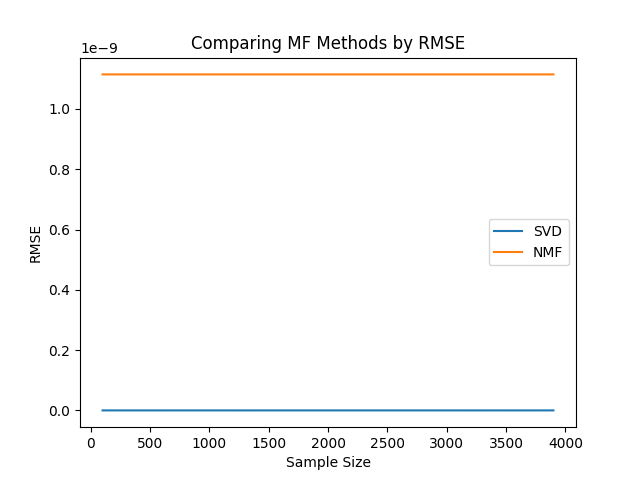
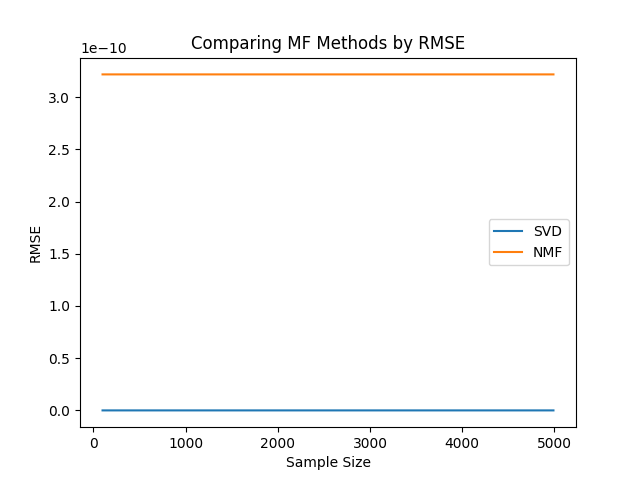
Adding changes to RMSE function and plot changes

diff --git a/final_from_scratch.py b/final_from_scratch.py
@@ -23,11 +23,13 @@ def rmse_function(actual, estimate):
     rmse_val (float): root mean square error
     '''
     rmse_val = 0
+    count = 0
     for row, col in np.ndindex(actual.shape):
         # only calculate RMSE for ratings that exist
         if actual[row, col] != 0:
             rmse_val += (actual[row, col] - estimate[row, col])**2
-    rmse_val = np.sqrt(rmse_val)
+            count += 1
+    rmse_val = np.sqrt(rmse_val/count)
     return rmse_val
 
 def sgd_svd(arr, n_components, lr, epochs):
@@ -204,13 +206,15 @@ sparse_matrix = sparse.csr_matrix((df.rating.values, (df.user_id.values, df.movi
 # convert to a numpy array
 sparse_matrix = sparse.csr_matrix.toarray(sparse_matrix)
 
+print(sparse_matrix.shape)
+
 #print(sparse_matrix)
 
 # parameters for SVD and NMF
 num_components = matrix_rank(sparse_matrix) # num_components is usually the rank of the matrix
 #print(num_components)
 learning_rate = 0.001
-num_epochs = 3000
+num_epochs = 2000
 # create a list of epochs for plotting purposes
 epochs_lst = [i for i in range(num_epochs)]
 

diff --git a/final_from_pkg.py b/final_from_pkg.py
@@ -26,11 +26,13 @@ def rmse_function(actual, estimate):
     rmse_val (float): root mean square error
     '''
     rmse_val = 0
+    count = 0
     for row, col in np.ndindex(actual.shape):
         # only calculate RMSE for ratings that exist
         if actual[row, col] != 0:
             rmse_val += (actual[row, col] - estimate[row, col])**2
-    rmse_val = np.sqrt(rmse_val)
+            count += 1
+    rmse_val = np.sqrt(rmse_val/count)
     return rmse_val
 
 def matrix_factorization(sparse_matrix):
@@ -116,6 +118,10 @@ plt.plot(samples, rmse_nmf_lst, label = 'NMF')
 plt.legend()
 plt.savefig('plot_pkg.png')
 
+print('RMSE for SVD')
+print(rmse_svd_lst[-1])
+print('RMSE for NMF')
+print(rmse_nmf_lst[-1])
 
 # section for testing purposes
 
